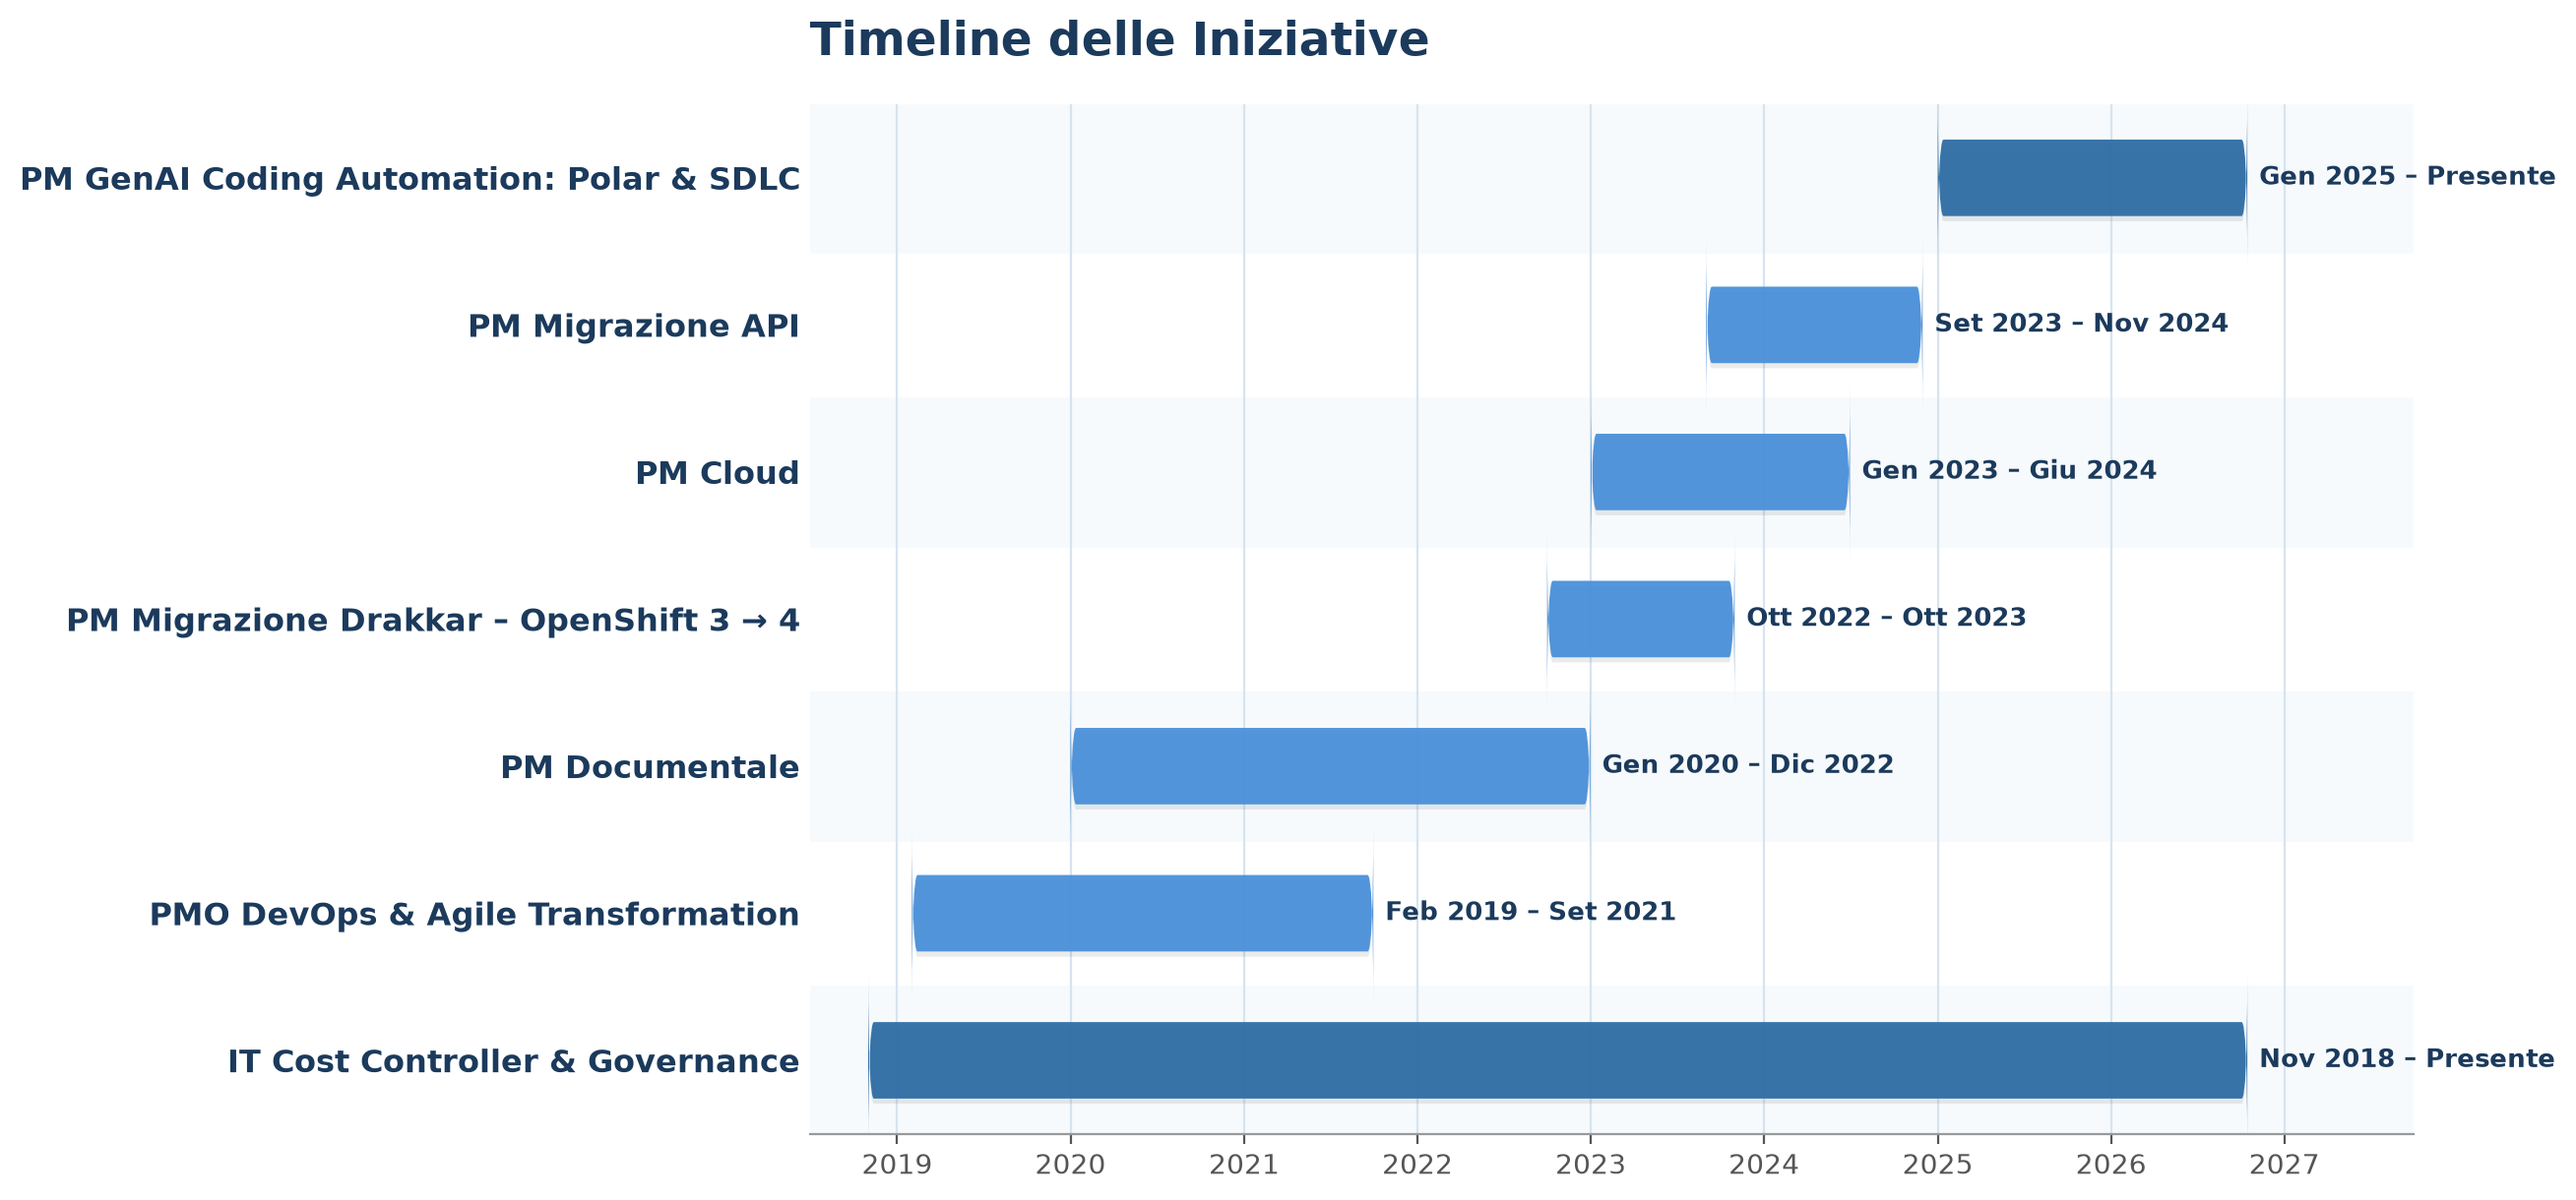
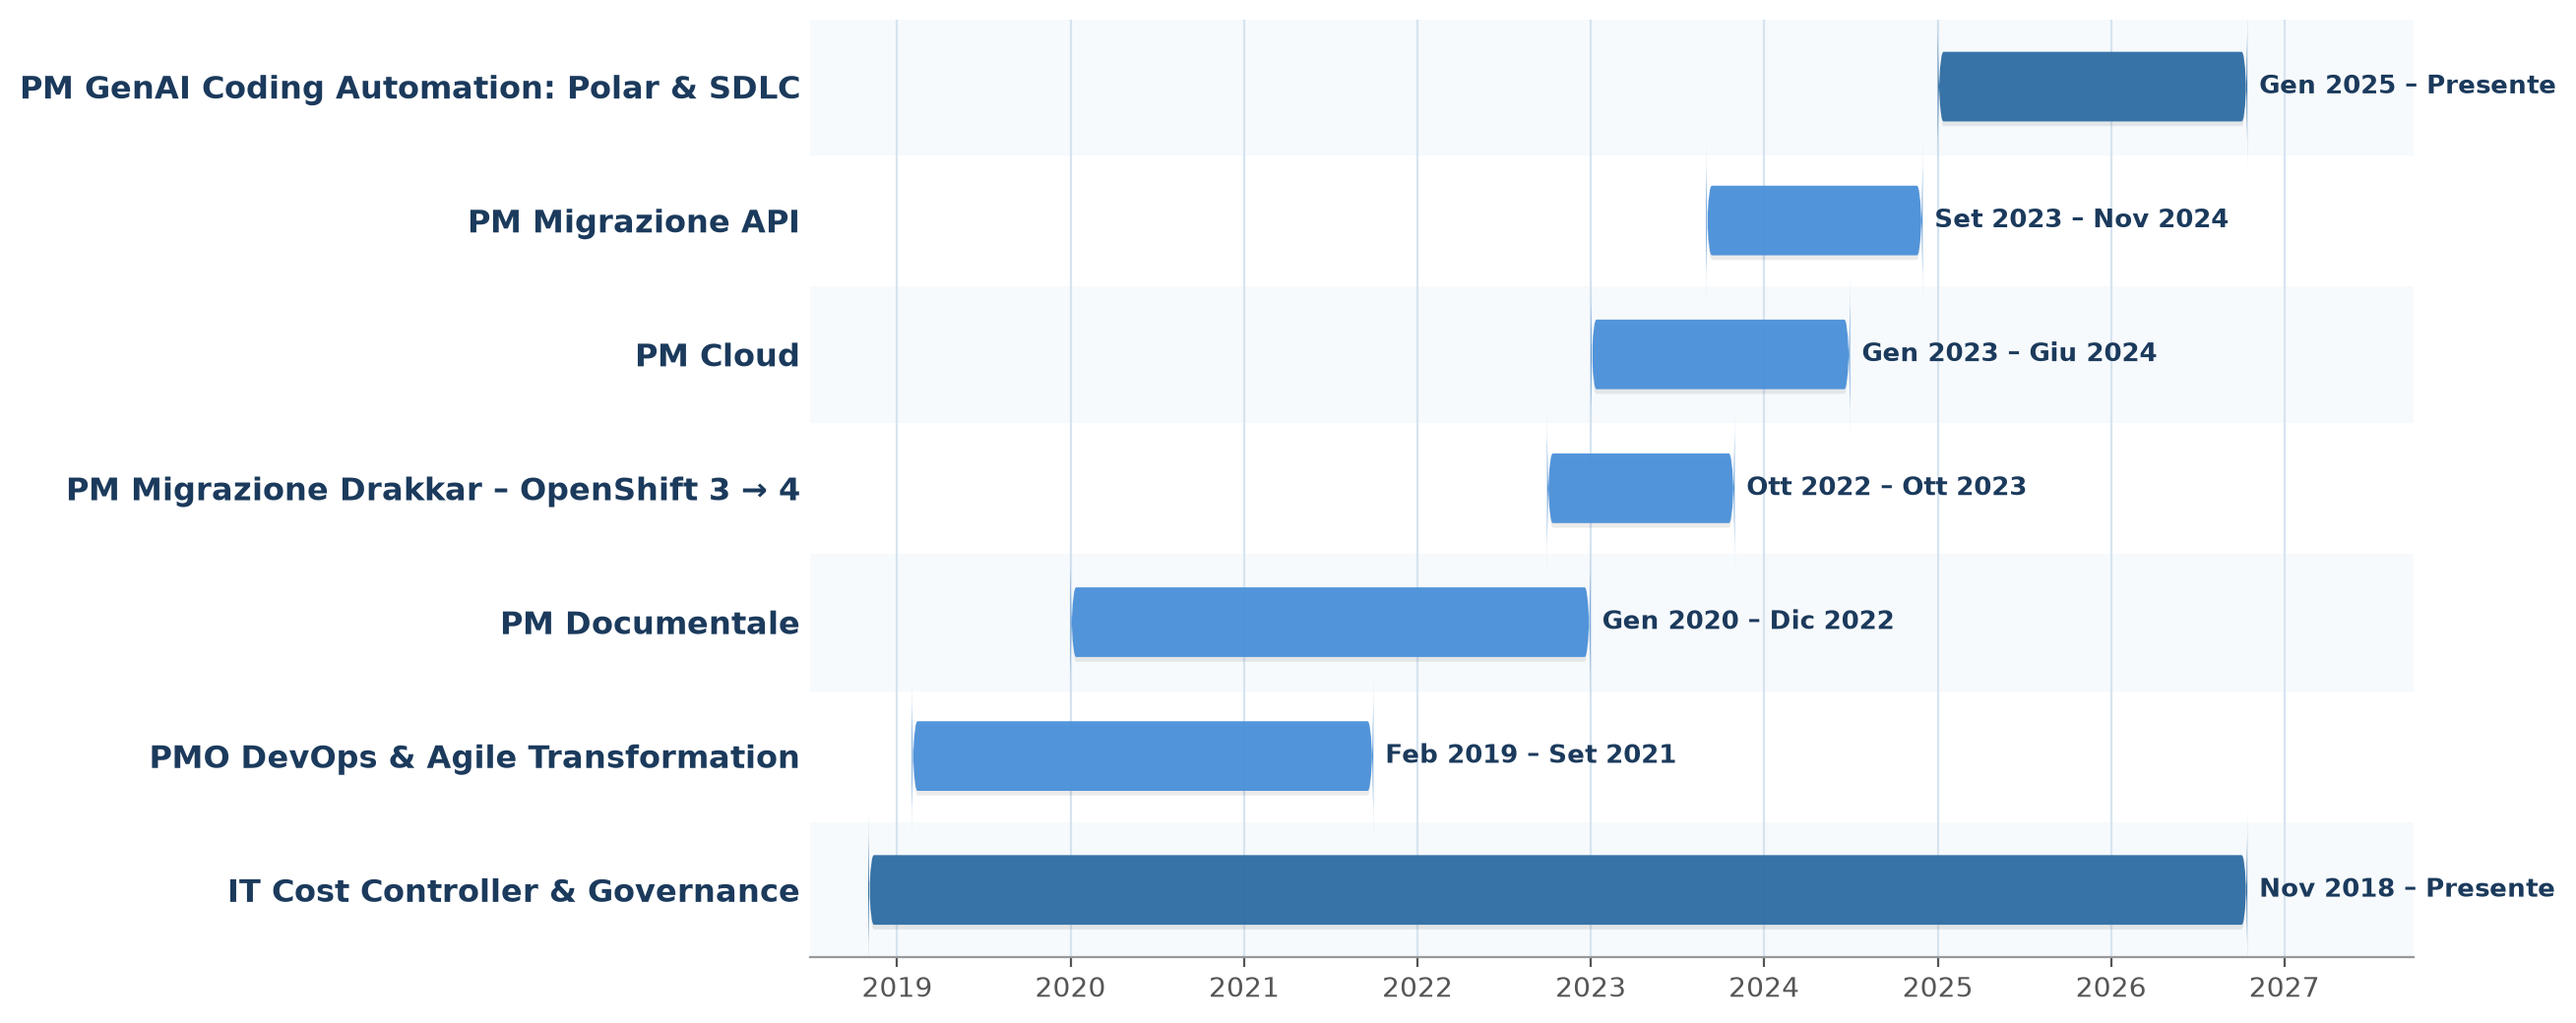
Rinomina progetto Demand (design, non PM); rimuove titolo dal Gantt e rende layout piu' compatto

diff --git a/cv/index.html b/cv/index.html
@@ -423,18 +423,9 @@
         }
 
         .gantt-section {
-            margin-top: 28px;
-            padding-top: 20px;
+            margin-top: 22px;
+            padding-top: 16px;
             border-top: 2px solid var(--light-blue);
-        }
-
-        .gantt-title {
-            font-size: 13px;
-            font-weight: 700;
-            text-transform: uppercase;
-            letter-spacing: 2px;
-            color: var(--mid-blue);
-            margin-bottom: 14px;
         }
 
         .gantt-image {
@@ -752,13 +743,13 @@
 
                 <div class="project">
                     <div class="project-title">
-                        <span class="name">PM Design Processi di Demand &mdash; ServiceNow</span>
+                        <span class="name">Design Processi di Demand Management &mdash; ServiceNow</span>
                         <span class="period">2021 &ndash; 2022</span>
                     </div>
                     <div class="project-client">Cliente: Unipol Assicurazioni</div>
                     <ul>
-                        <li>Progettazione e implementazione dei processi di Demand Management su piattaforma ServiceNow, standardizzando il flusso di raccolta, valutazione e prioritizzazione delle richieste IT</li>
-                        <li>Definizione dei workflow approvativi e integrazione con i processi ITSM esistenti, riducendo i tempi di risposta alle richieste di business</li>
+                        <li><b>Progettazione dei processi di Demand Management</b> su piattaforma ServiceNow, standardizzando il flusso di raccolta, valutazione e prioritizzazione delle richieste IT</li>
+                        <li><b>Definizione dei workflow approvativi</b> e integrazione con i processi ITSM esistenti, riducendo i tempi di risposta alle richieste di business</li>
                     </ul>
                 </div>
 
@@ -790,8 +781,7 @@
                 </div>
 
                 <div class="gantt-section">
-                    <h3 class="gantt-title">Gantt delle Iniziative</h3>
-                    <img src="gantt.png?v=4" alt="Gantt delle Iniziative" class="gantt-image">
+                    <img src="gantt.png?v=5" alt="Timeline delle iniziative HSPI" class="gantt-image">
                 </div>
             </div>
 
